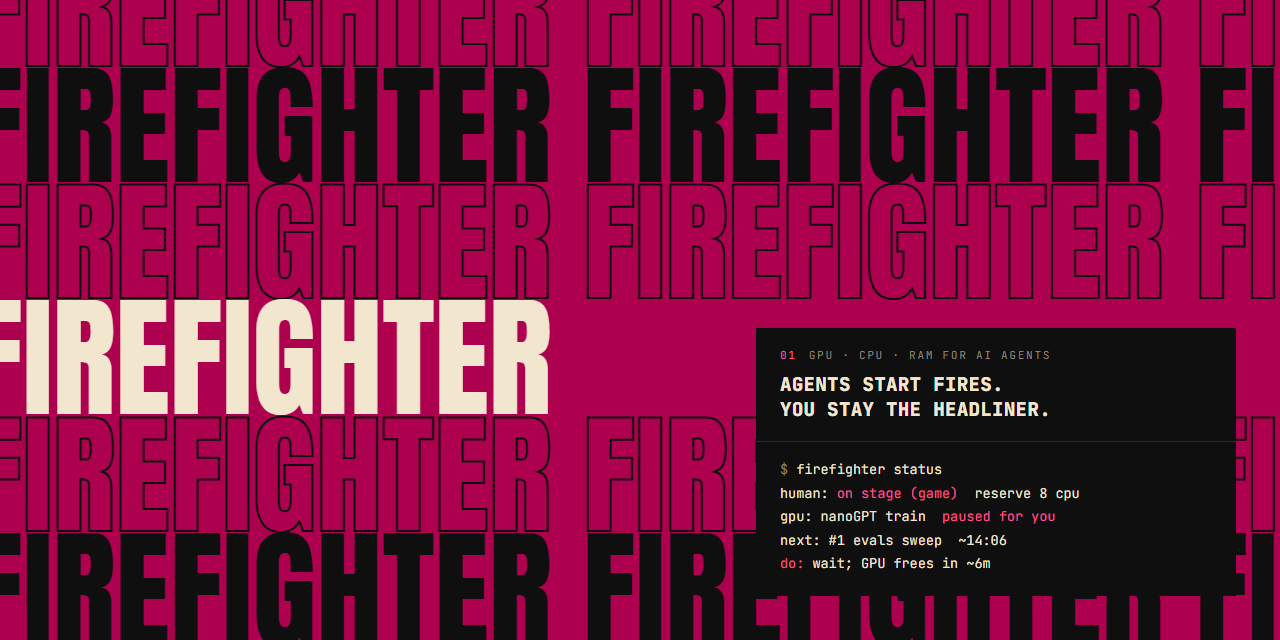
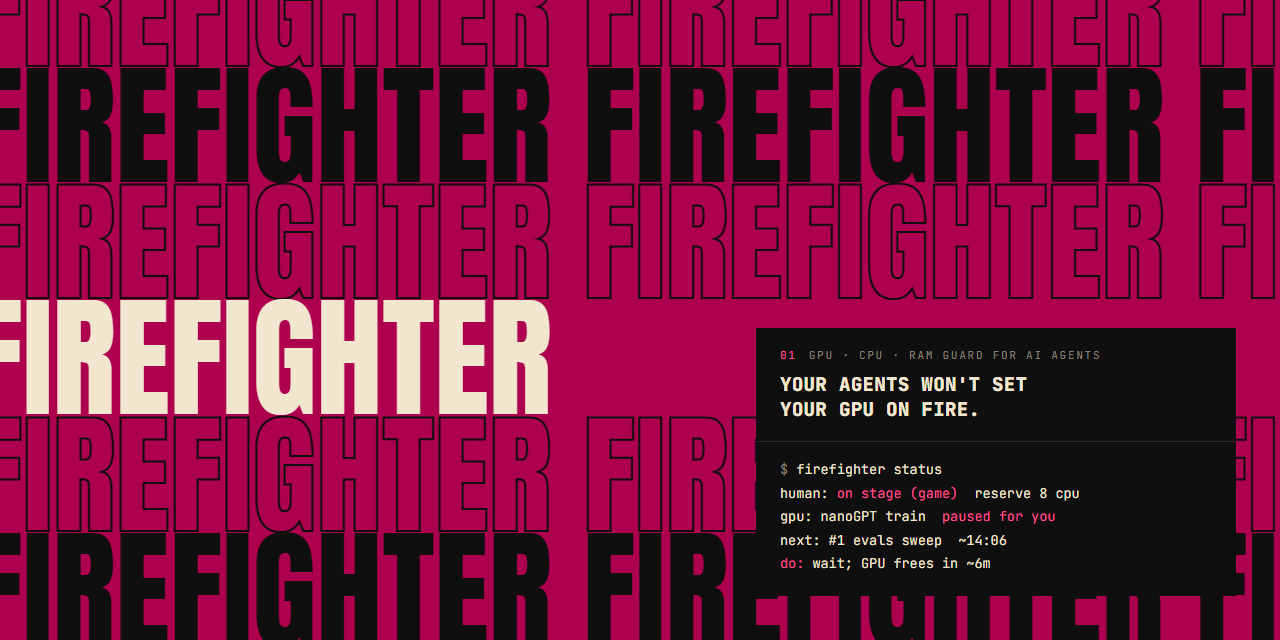
Tagline: your agents won't set your GPU on fire

Changed region(s): [[0.5938, 0.5312, 0.8438, 0.6562]]

diff --git a/docs/index.html b/docs/index.html
@@ -6,7 +6,7 @@
 <title>firefighter: GPU, CPU &amp; RAM scheduler for AI coding agents (Claude Code, Codex, MCP)</title>
 <meta name="description" content="firefighter lets Claude Code, Codex, Gemini CLI, Cursor and other AI agents share one computer's GPU, VRAM, CPU and RAM. Job queue, market maker, MCP server, and you always come first. One-command install on Windows, macOS and Linux.">
 <meta name="keywords" content="AI agents GPU scheduler, Claude Code GPU, Codex GPU queue, MCP server GPU, local GPU job queue, VRAM scheduler, multi-agent resource manager, Windows GPU scheduler">
-<meta property="og:title" content="firefighter: your AI agents share the GPU, you stay the headliner">
+<meta property="og:title" content="firefighter: your AI agents won't set your GPU on fire">
 <meta property="og:description" content="GPU/CPU/RAM scheduler + market maker for AI coding agents on one PC. One command. Windows, macOS, Linux.">
 <meta property="og:image" content="https://joshwright22.github.io/firefighter/social-preview.png">
 <meta name="twitter:card" content="summary_large_image">
@@ -61,7 +61,7 @@
   <div class="lit">FIREFIGHTER <span>FIREFIGHTER FIREFIGHTER</span></div><div>FIREFIGHTER FIREFIGHTER FIREFIGHTER</div><div>FIREFIGHTER FIREFIGHTER FIREFIGHTER</div>
 </div></div>
 <main>
-  <h1>Your AI agents share the GPU.<br>You stay the <em>headliner</em>.</h1>
+  <h1>Your AI agents won't set<br>your <em>GPU</em> on fire.</h1>
   <p class="sub"><b>firefighter</b> is a local GPU, CPU and RAM scheduler, job queue and market maker for AI coding agents sharing one computer. One command installs it on Windows, macOS or Linux. After that, every agent session queues its heavy work, sees what the others are doing, and gets out of the way when you need the machine.</p>
   <div class="agents"><span class="chip">Claude Code</span><span class="chip">Codex</span><span class="chip">Gemini CLI</span><span class="chip">Cursor</span><span class="chip">T3 Code</span><span class="chip">any MCP client</span></div>
 
@@ -90,7 +90,7 @@
     <p class="sub">Dominant Resource Fairness · Tiresias least-attained-service · Karma credits · PerfIso idle-core buffers · Themis leases · lottery &amp; stride scheduling · BOINC idle detection · KAI-Scheduler minimum runtime · PilotFish GPU harvesting. <a href="https://github.com/JoshWright22/firefighter/blob/main/docs/research.md">Read the report</a></p>
     <a class="cta" href="https://github.com/JoshWright22/firefighter">Get firefighter on GitHub</a>
   </section>
-  <footer>MIT licensed · your agents start the fires. you stay the headliner.</footer>
+  <footer>MIT licensed · your agents won't set your GPU on fire.</footer>
 </main>
 </body>
 </html>

diff --git a/assets/brand/social.html b/assets/brand/social.html
@@ -19,7 +19,7 @@
 </style></head><body>
   <div class="stack"><div>firefighter firefighter firefighter</div><div>firefighter firefighter firefighter</div><div>firefighter firefighter firefighter</div><div class="lit">firefighter</div><div>firefighter firefighter firefighter</div><div>firefighter firefighter firefighter</div></div>
   <div class="card">
-    <div class="head"><div class="label"><b>01</b>GPU · CPU · RAM for AI agents</div><div class="tag">Agents start fires.<br>You stay the headliner.</div></div>
+    <div class="head"><div class="label"><b>01</b>GPU · CPU · RAM guard for AI agents</div><div class="tag">Your agents won't set<br>your GPU on fire.</div></div>
     <div class="term"><span class="g">$</span> firefighter status
 human: <span class="c">on stage (game)</span>  reserve 8 cpu
 gpu: nanoGPT train  <span class="c">paused for you</span>

diff --git a/cmd/firefighter/main.go b/cmd/firefighter/main.go
@@ -31,7 +31,7 @@ import (
 
 var version = "dev"
 
-const usage = `firefighter: your agents start the fires, you stay the headliner.
+const usage = `firefighter: your agents won't set your GPU on fire.
 
   firefighter run [--gpu] --minutes N [--vram GB] [--ram GB] [--urgent] [--name NAME] -- <command...>
                                  wait for a turn, run the command here, print a receipt

diff --git a/internal/ui/ui.go b/internal/ui/ui.go
@@ -55,7 +55,7 @@ func PrintBanner() {
 	for _, line := range strings.Split(Banner, "\n") {
 		fmt.Fprintln(os.Stderr, Paint(Hot, line))
 	}
-	fmt.Fprintln(os.Stderr, Paint(Ash, "  your agents start the fires. you stay the headliner."))
+	fmt.Fprintln(os.Stderr, Paint(Ash, "  your agents won't set your GPU on fire."))
 }
 
 // Mark starts every firefighter line.

diff --git a/README.md b/README.md
@@ -8,7 +8,7 @@
   <a href="LICENSE"><img src="https://img.shields.io/badge/license-MIT-0f0f0f" alt="MIT"></a>
 </p>
 
-<h3 align="center">Your AI agents share the GPU. You stay the headliner.</h3>
+<h3 align="center">Your AI agents won't set your GPU on fire. Or your CPU, or your RAM.</h3>
 
 <p align="center"><b>firefighter</b> is a local GPU, CPU and RAM scheduler, job queue and market maker for AI coding agents
 (<b>Claude Code, Codex, Gemini CLI, Cursor, T3 Code</b>) that share one computer.<br>
